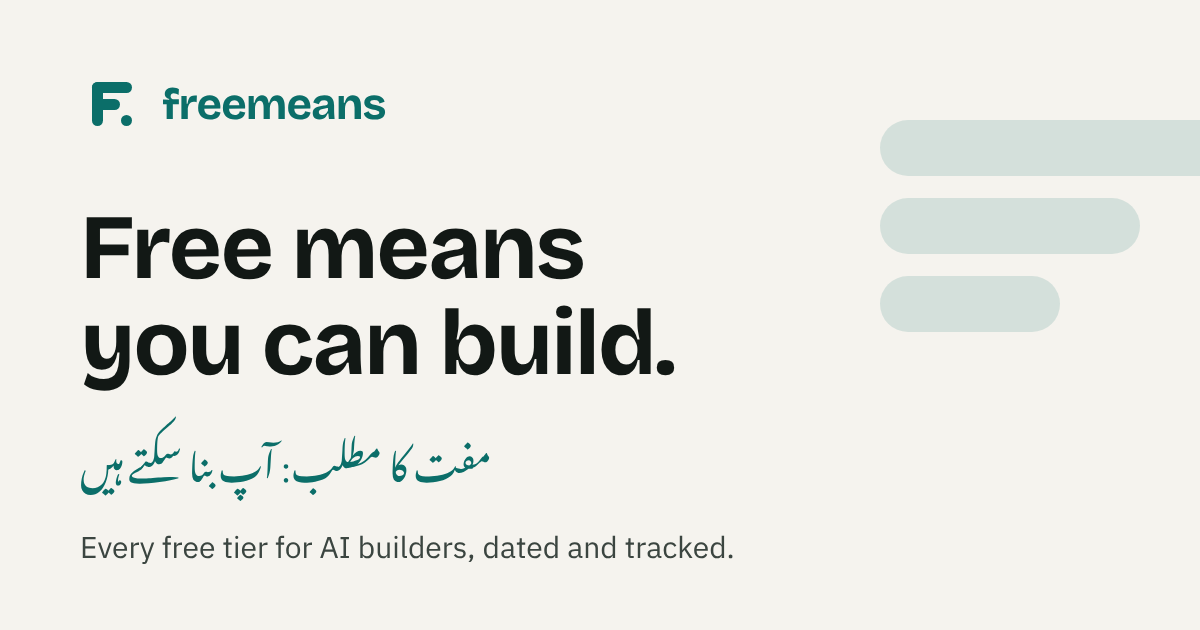
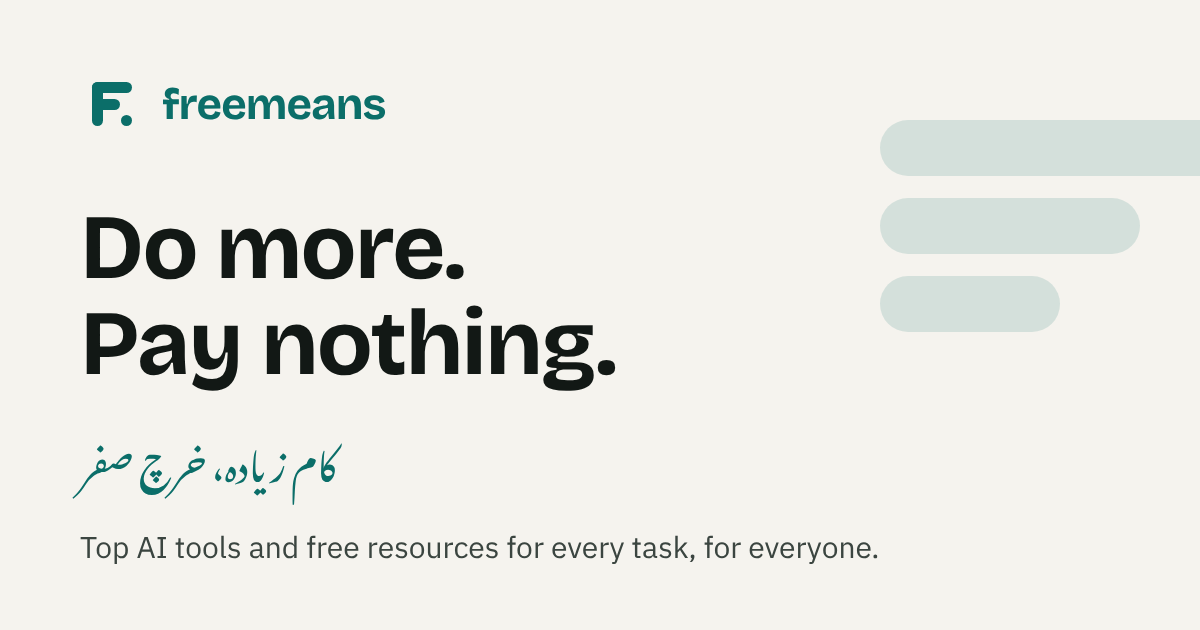
New tagline: Do more. Pay nothing. / کام زیادہ، خرچ صفر
The site is for everyone, not only developers. Updates the home hero,
page titles, meta descriptions, footer, share image (og.png), README and tests.

Claude-Session: https://claude.ai/code/session_015GStAkvLzSfjTeZ2sZ77eH

diff --git a/apps/web/src/lib/seo.js b/apps/web/src/lib/seo.js
@@ -5,7 +5,7 @@ import { resources, loadCatalog } from './catalog.js';
 
 export const SITE_NAME = 'Freemeans';
 export const SITE_URL = 'https://freemeans.com';
-export const DEFAULT_IMAGE = { path: '/og.png', width: 1200, height: 630, alt: 'Freemeans: every free tier for AI builders, dated and tracked.' };
+export const DEFAULT_IMAGE = { path: '/og.png', width: 1200, height: 630, alt: 'Freemeans: Do more. Pay nothing. Top AI tools and free resources for every task, for everyone.' };
 
 const abs = (site, path) => new URL(path, site).href;
 

diff --git a/apps/web/scripts/render-share-images.py b/apps/web/scripts/render-share-images.py
@@ -24,9 +24,9 @@ h1 {{ font-family:B; font-size:92px; line-height:96px; letter-spacing:-2px; marg
 </style></head><body>
 <div class="bars"><span style="width:360px"></span><span style="width:260px"></span><span style="width:180px"></span></div>
 <div class="top">{MARK.format(c='#0B6E69')}freemeans</div>
-<h1>Free means<br>you can build.</h1>
-<p class="ur" lang="ur">مفت کا مطلب: آپ بنا سکتے ہیں</p>
-<p class="sub">Every free tier for AI builders, dated and tracked.</p>
+<h1>Do more.<br>Pay nothing.</h1>
+<p class="ur" lang="ur">کام زیادہ، خرچ صفر</p>
+<p class="sub">Top AI tools and free resources for every task, for everyone.</p>
 </body></html>"""
 def icon(size, pad):
     return f"<html><body style='margin:0;width:{size}px;height:{size}px;background:#0B6E69;display:flex;align-items:center;justify-content:center'><div style='width:{size-2*pad}px;height:{size-2*pad}px'>{MARK.format(c='#FFFFFF')}</div></body></html>"

diff --git a/README.md b/README.md
@@ -1,6 +1,8 @@
 # Freemeans
 
-**Free means you can build.** · freemeans.com
+**Do more. Pay nothing.** · کام زیادہ، خرچ صفر · freemeans.com
+
+Top AI tools and free resources for every task, for everyone.
 
 Freemeans helps builders run projects on **their own** free AI quotas. It knows which free tiers exist, what their limits and rules are, and it routes each request to the provider with the most headroom. It never breaks a provider's terms.
 
